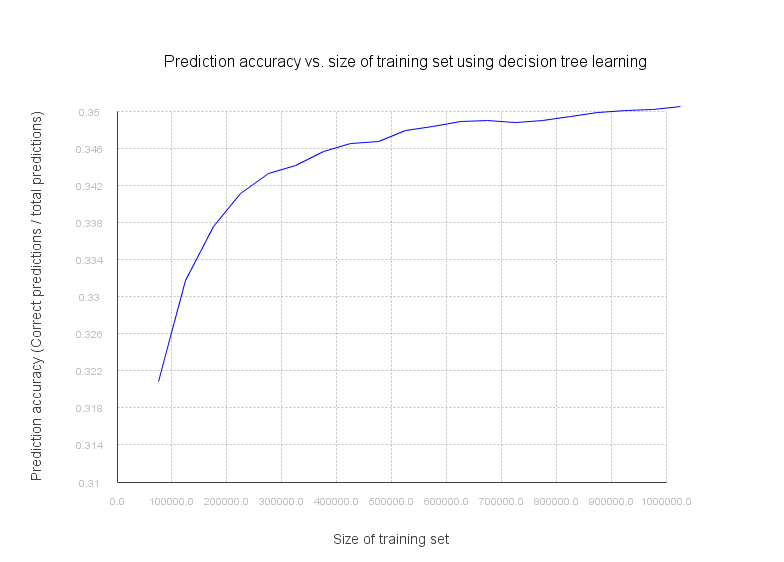
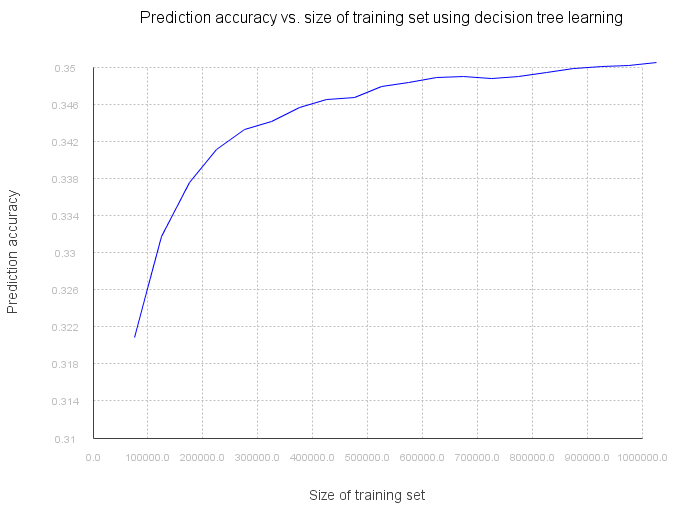
Plot stuff

diff --git a/decision_tree/Plotter.java b/decision_tree/Plotter.java
@@ -9,8 +9,17 @@ import java.awt.Font;
 
 public class Plotter {
     public static void main(String[] args) throws Exception {
+        
+        // All (almost) examples shuffled randomly
+        List<Data> examples = new Parser(new InputStreamReader(System.in))
+            .run(2000000, 0);
+        Collections.shuffle(examples, new Random(0));
+        
+        plot1(examples);
+        plot2(examples);
+    }
     
-        Parser parser = new Parser(new InputStreamReader(System.in));
+    private static void plot1(List<Data> examples) {
         
         // X-axis is training set size
         int interval = 50000;
@@ -20,12 +29,7 @@ public class Plotter {
         }
         
         // Y-axis is correct predictions over testing set size (1,000,000)
-        double[] y1 = new double[x.length];
-        double[] y2 = new double[x.length];
-        
-        // All (almost) examples shuffled randomly
-        List<Data> examples = parser.run(2000000, 0);
-        Collections.shuffle(examples, new Random(0));
+        double[] y = new double[x.length];
         
         // Testing set used to calculate each accuracy ratio
         List<Data> testingSet = new ArrayList<Data>();
@@ -42,30 +46,20 @@ public class Plotter {
             DecisionTree dt = new DecisionTree(trainingSet);
             dt.learn();
             int correct = 0;
-            int close = 0;
             for (Data data : testingSet) {
                 int prediction = dt.predict(data).ordinal();
                 int actual = data.rating.ordinal();
                 if (prediction == actual) {
                     correct++;
                 }
-                if (prediction == actual ||
-                    prediction == (actual-1) ||
-                    prediction == (actual+1)) {
-                    
-                    close++;
-                }
             }
-            y1[i] = (double)correct / (double)testingSet.size();
-            y2[i] = (double)close / (double)testingSet.size();
+            y[i] = (double)correct / (double)testingSet.size();
         }
         
         // Plot the data
         Plot2DPanel plot = new Plot2DPanel();
         String title = "Prediction accuracy vs. size of training set using decision tree learning";
-        plot.addLegend("SOUTH");
-        plot.addLinePlot("Error margin of 0", x, y1);
-        plot.addLinePlot("Error margin of 1", x, y2);
+        plot.addLinePlot(title, x, y);
         plot.setAxisLabels("Size of training set", "Prediction accuracy");
         plot.getAxis(0).setLabelPosition(0.5, -0.15);
         plot.getAxis(0).setLabelFont(new Font("Arial", Font.PLAIN, 14));
@@ -80,5 +74,30 @@ public class Plotter {
         frame.setSize(800, 600);
         frame.setContentPane(plot);
         frame.setVisible(true);
+    }
+    
+    private static void plot2(List<Data> examples) {
+    
+        // Bar plot
+        DecisionTree dt = new DecisionTree(examples);
+        dt.learn();
+        
+        double[] ratingSums = new double[Occupation.values().length];
+        for (int i = 0; i < ratingSums.length; i++) {
+            ratingSums[i] = 0;
+        }
+        for (Gender gender : Gender.values()) {
+            for (Age age : Age.values()) {
+                for (Occupation occupation : Occupation.values()) {
+                    int prediction = dt.predict(new Data(Genre.HORROR, gender, age, occupation, null, 0)).ordinal();
+                    ratingSums[occupation.ordinal()] += prediction;
+                }
+            }
+        }
+        for (int i = 0; i < ratingSums.length; i++) {
+            System.out.print(Occupation.values()[i]);
+            System.out.print(" ");
+            System.out.println(ratingSums[i]);
+        }
     }
 }
